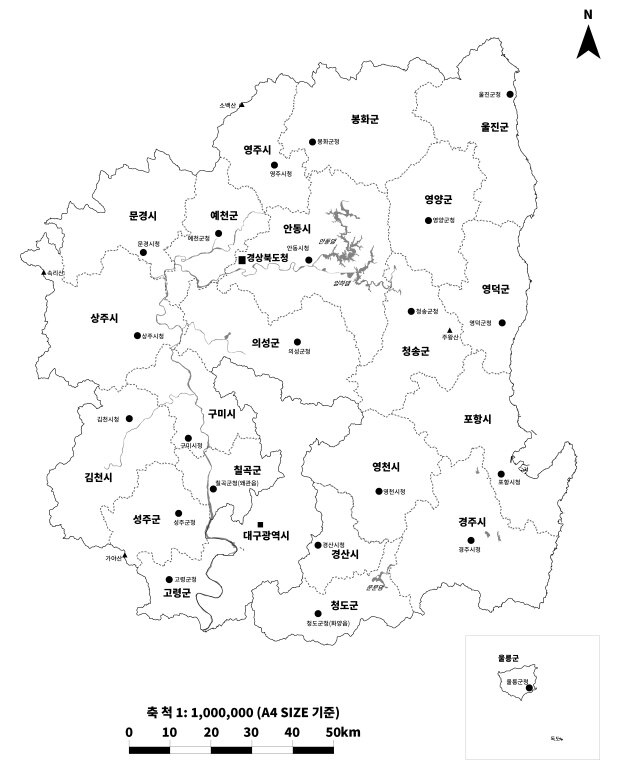
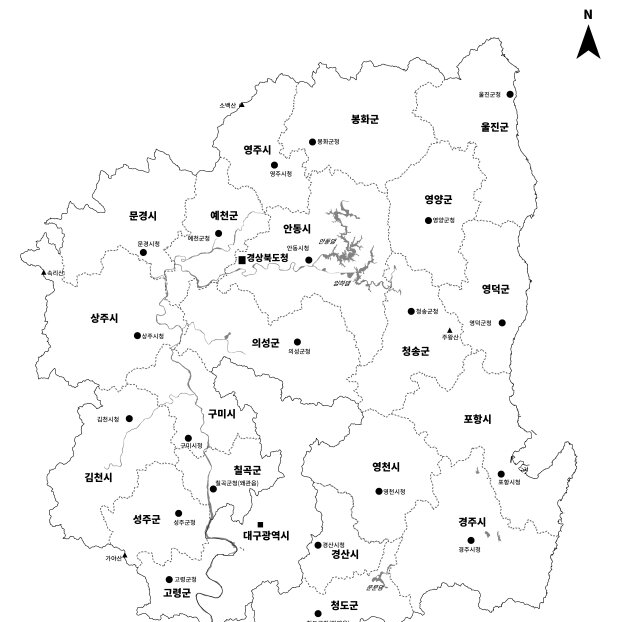
Make the map wider and remove the scale bar
Update map component to remove the bottom scale bar, expand the map to fill the full width of its container, and reposition the legend to a horizontal bar below the map.

Replit-Commit-Author: Agent
Replit-Commit-Session-Id: 2ac2e321-d712-4a6c-a959-2a13bc04bb1e
Replit-Commit-Checkpoint-Type: full_checkpoint
Replit-Commit-Event-Id: c934024d-4879-4b98-9d83-c1697aacc201
Replit-Commit-Screenshot-Url: https://storage.googleapis.com/screenshot-production-us-central1/235b0263-0b29-4162-bf1b-c8ec3151e476/2ac2e321-d712-4a6c-a959-2a13bc04bb1e/VT4iam4
Replit-Helium-Checkpoint-Created: true

diff --git a/client/src/pages/HeatWaveChecklist.tsx b/client/src/pages/HeatWaveChecklist.tsx
@@ -839,9 +839,10 @@ function ChecklistForm({
 }
 
 // ─── 대구·경북 체감온도 지도 ──────────────────────────────────
-// 좌표계: 640×784 (실제 지도 이미지 크기)
+// 좌표계: 640×622 (축척바 제거 후 크롭된 이미지)
 const DGKB_CITIES: { name: string; x: number; y: number; r?: number }[] = [
-  { name: "울릉", x: 560, y: 700, r: 18 }, // 울릉도 인셋 위치
+  // 울릉도는 메인 지도 밖이므로 상단 우측 주석 영역에 배치
+  { name: "울릉", x: 608, y: 38, r: 20 },
   { name: "봉화", x: 352, y: 112 },
   { name: "울진", x: 512, y: 96 },
   { name: "영주", x: 238, y: 192 },
@@ -992,13 +993,13 @@ function DaeguGyeongbukHeatMap({ onDataParsed }: { onDataParsed?: (d: ParsedCSVD
         </div>
       </div>
 
-      {/* Body */}
-      <div className="p-3 flex flex-col lg:flex-row gap-4 items-start">
-        {/* SVG Map — 실제 행정지도 640×784 위에 체감온도 원 오버레이 */}
-        <div className="w-full lg:flex-1 min-w-0">
-          <svg viewBox="0 0 640 784" className="w-full" style={{ maxWidth: 640 }}>
-            {/* 실제 대구경북 행정지도 이미지 */}
-            <image href="/daegu-gyeongbuk-map.png" x="0" y="0" width="640" height="784" preserveAspectRatio="xMidYMid meet" />
+      {/* Body — 지도가 전체 너비, 범례는 하단 */}
+      <div className="p-3 flex flex-col gap-3">
+        {/* SVG Map — 실제 행정지도 640×622 위에 체감온도 원 오버레이 */}
+        <div className="w-full">
+          <svg viewBox="0 0 640 622" className="w-full">
+            {/* 실제 대구경북 행정지도 이미지 (축척바 제거 크롭본) */}
+            <image href="/daegu-gyeongbuk-map.png" x="0" y="0" width="640" height="622" preserveAspectRatio="xMidYMid meet" />
 
             {/* City circles */}
             {DGKB_CITIES.map(city => {
@@ -1020,39 +1021,39 @@ function DaeguGyeongbukHeatMap({ onDataParsed }: { onDataParsed?: (d: ParsedCSVD
           </svg>
         </div>
 
-        {/* Right panel */}
-        <div className="flex flex-col gap-3 min-w-[152px] w-full lg:w-auto">
+        {/* Bottom panel — 범례 + TOP 도시 가로 배치 */}
+        <div className="flex flex-wrap gap-4 items-start border-t pt-2.5">
+          {/* 범례 */}
           <div>
             <p className="text-[11px] font-semibold text-muted-foreground mb-1.5">폭염 단계 (체감온도 기준)</p>
-            <div className="space-y-1.5">
+            <div className="flex flex-wrap gap-x-4 gap-y-1">
               {LEGEND.map(l => (
-                <div key={l.label} className="flex items-center gap-2">
-                  <div className="w-3.5 h-3.5 rounded-full flex-shrink-0 border border-black/10" style={{ background: l.fill }} />
+                <div key={l.label} className="flex items-center gap-1.5">
+                  <div className="w-3 h-3 rounded-full flex-shrink-0 border border-black/10" style={{ background: l.fill }} />
                   <span className="text-[11px] text-muted-foreground leading-none">{l.label}</span>
                 </div>
               ))}
             </div>
           </div>
 
-          {topCities.length > 0 ? (
-            <div className="border rounded-lg p-2.5 bg-muted/30">
-              <p className="text-[11px] font-semibold text-muted-foreground mb-1.5">최고 체감온도 TOP</p>
-              <div className="space-y-1.5">
+          {/* TOP 도시 */}
+          {topCities.length > 0 && (
+            <div className="border rounded-lg px-3 py-2 bg-muted/30">
+              <p className="text-[11px] font-semibold text-muted-foreground mb-1">최고 체감온도 TOP</p>
+              <div className="flex flex-wrap gap-x-4 gap-y-0.5">
                 {topCities.map(([city, d]) => (
-                  <div key={city} className="flex items-center justify-between text-xs gap-2">
+                  <div key={city} className="flex items-center gap-1.5 text-xs">
                     <span className="text-muted-foreground">{city}</span>
                     <span className="font-bold tabular-nums" style={{ color: getHeatStroke(d.feelsLike) }}>{d.feelsLike}°C</span>
                   </div>
                 ))}
               </div>
-              {onDataParsed && (
-                <p className="text-[10px] text-green-600 mt-2">✓ 체크리스트 자동완성됨</p>
-              )}
+              {onDataParsed && <p className="text-[10px] text-green-600 mt-1">✓ 체크리스트 자동완성됨</p>}
             </div>
-          ) : (
-            <p className="text-[11px] text-muted-foreground text-center py-2 leading-relaxed">
-              CSV 업로드 시<br />지도에 표시 &<br />체크리스트 자동완성
-            </p>
+          )}
+
+          {topCities.length === 0 && (
+            <p className="text-[11px] text-muted-foreground py-1">CSV 업로드 시 지도에 표시 &amp; 체크리스트 자동완성</p>
           )}
         </div>
       </div>
